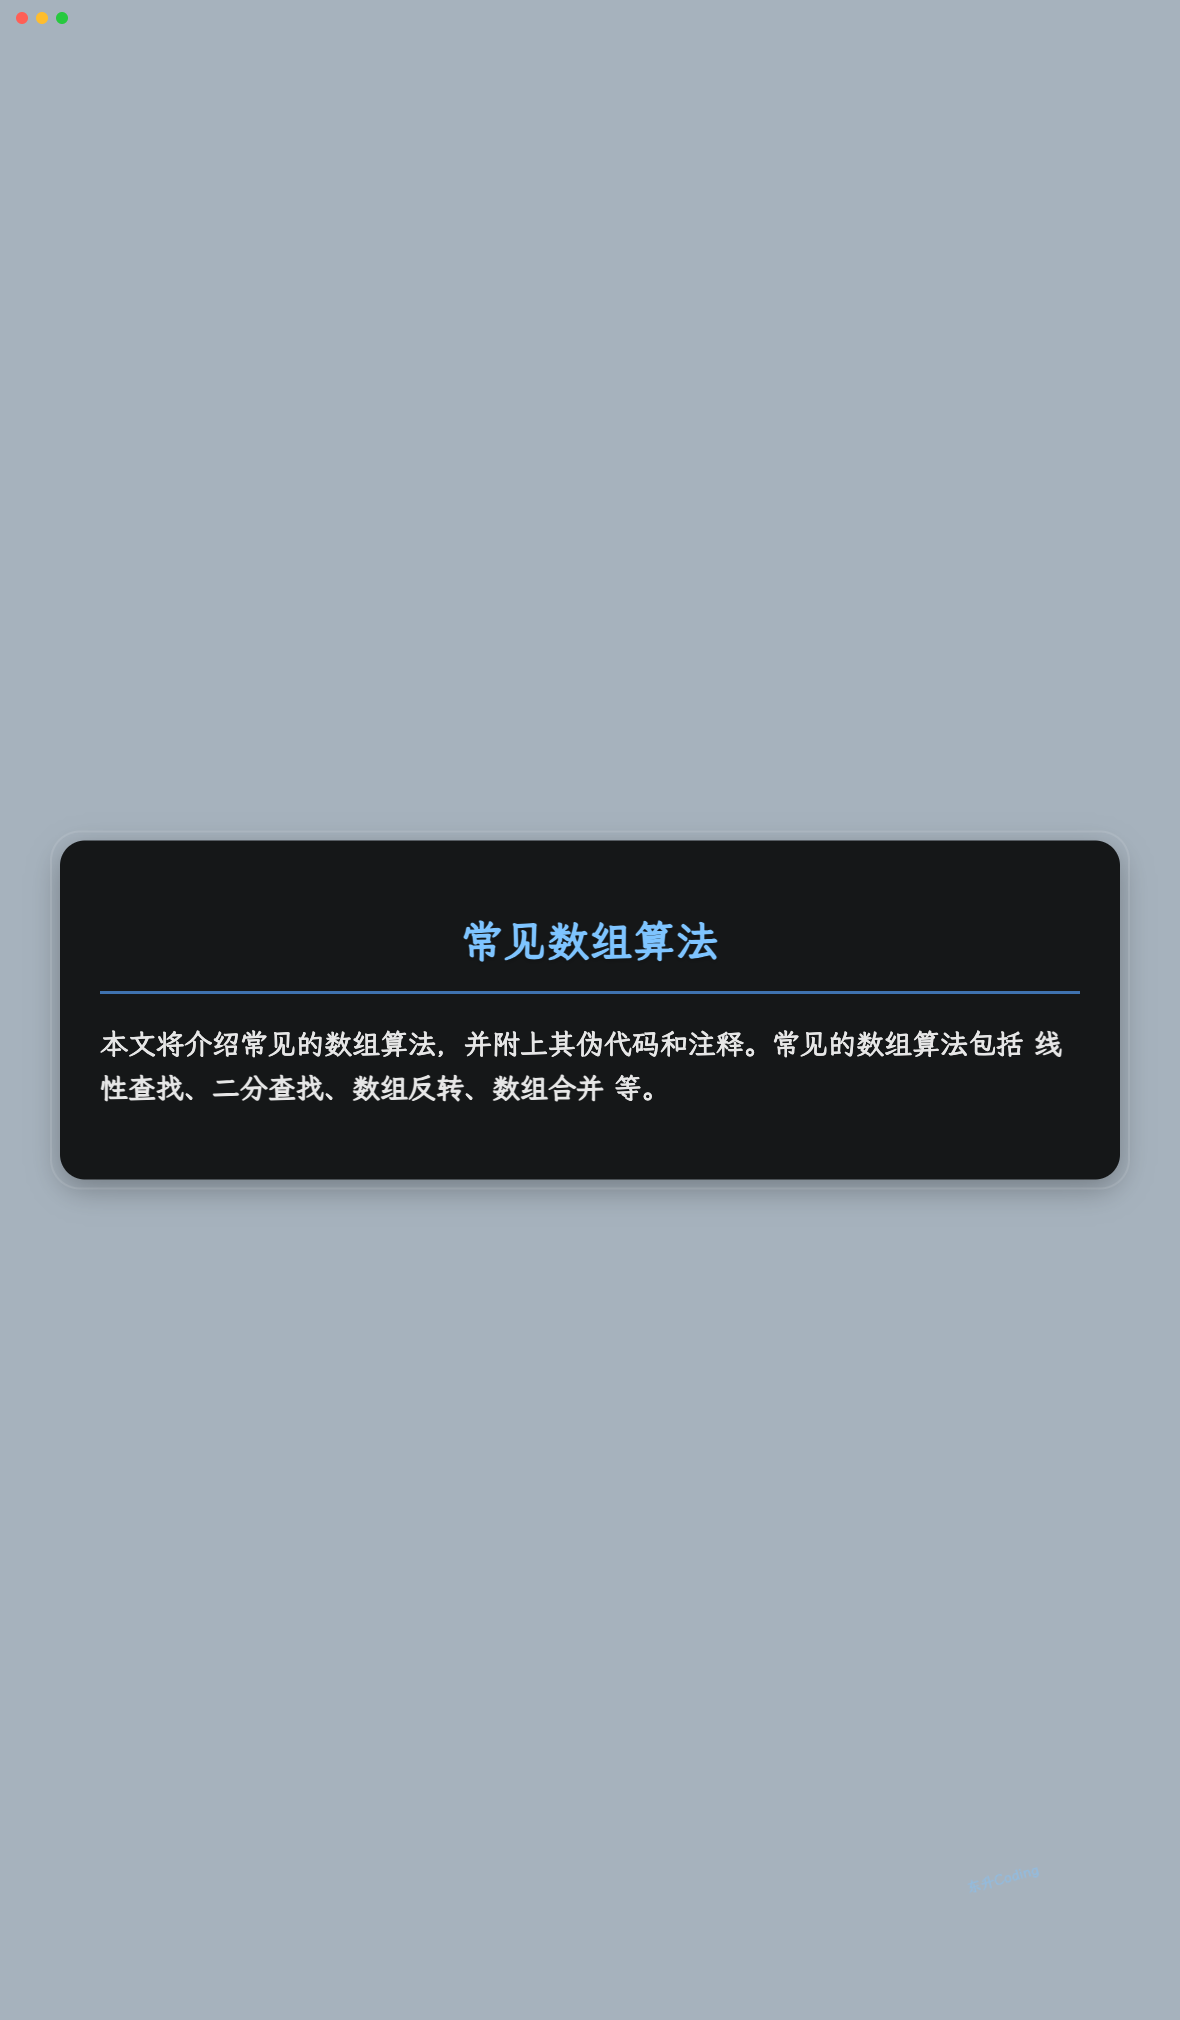
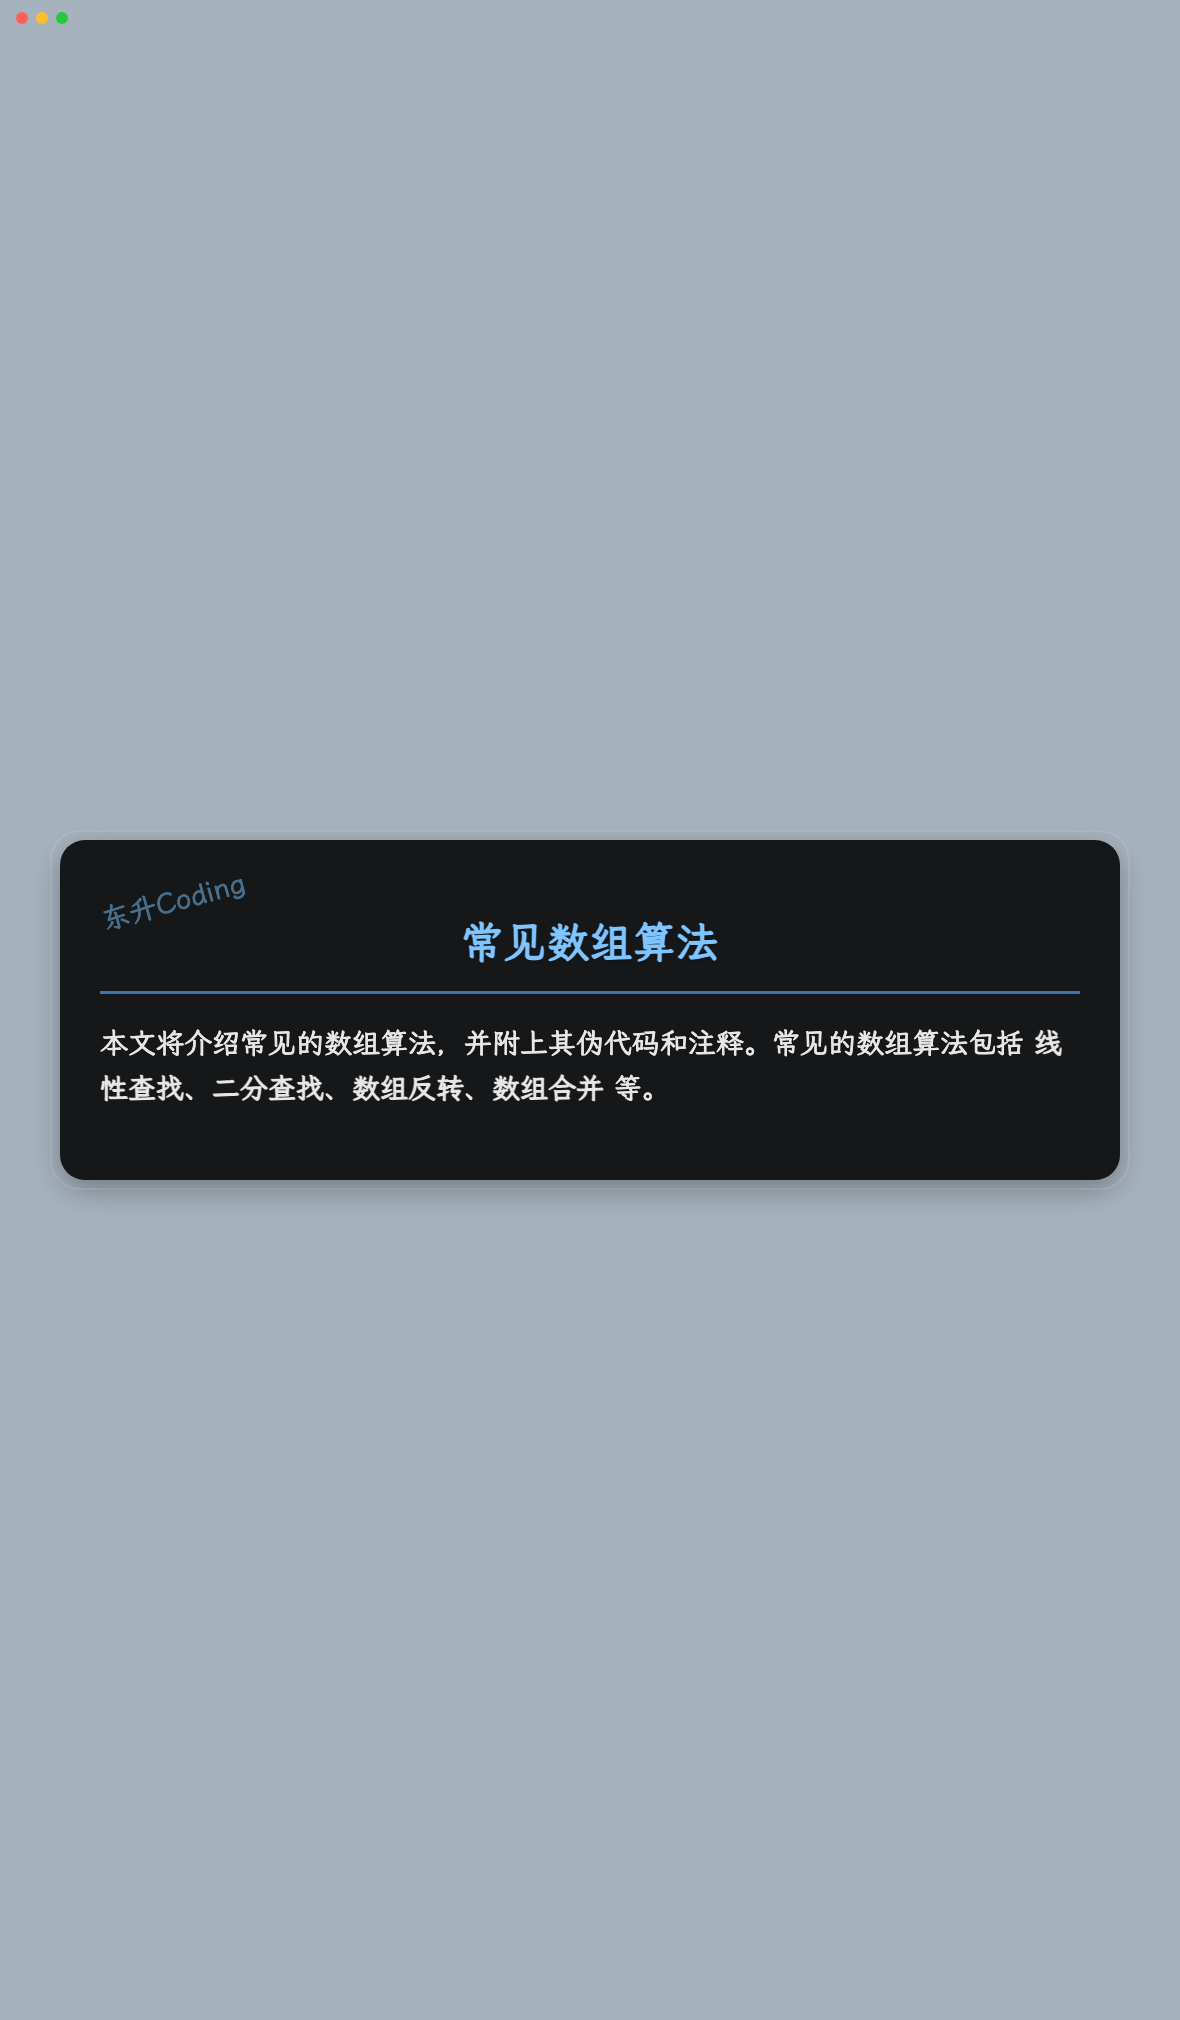
样式调整

diff --git a/md_to_image.py b/md_to_image.py
@@ -34,13 +34,12 @@ def parse_markdown(filename):
     with open(filename, 'r') as f:
         content = f.read()
     
-    # 按一级标题分割内容，第一部分作为封面
+    # 提取一级标题及其内容
     sections = re.split(r'(?=\n#\s+)', content)
     cover = sections[0].strip() if sections else ""
     
-    # 确保封面包含第一个一级标题及其内容
-    if len(sections) > 1:
-        cover = sections[0] + sections[1]
+    # 提取整个内容中的二级标题及其内容
+    cover += ''.join(re.findall(r'(?=\n##\s+).*?(?=\n##\s+|$)', content, re.DOTALL))
     
     # 按二级标题分割内容
     content_sections = re.split(r'(?=\n##\s+)', content)
@@ -63,14 +62,14 @@ def md_to_images(md_file):
         
         # 生成封面图片
         cover_html = generate_html(cover)
-        page.set_content(cover_html)
+        page.set_content(cover_html, timeout=60000)  # 增加超时时间到60秒
         page.wait_for_load_state('networkidle')
         page.screenshot(path=os.path.join(CONFIG['output_dir'], "cover.png"), full_page=True)
         
         # 生成内容图片
         for i, section in enumerate(sections):
             html = generate_html(section)
-            page.set_content(html)
+            page.set_content(html, timeout=60000)  # 增加超时时间到60秒
             page.wait_for_load_state('networkidle')
             
             # Get the actual content height
@@ -124,10 +123,19 @@ def generate_cover_html(content):
                 text-align: center;
                 text-shadow: 0 4px 8px rgba(0, 0, 0, 0.3);
             }}
+            .cover-subtitle {{
+                font-size: 48px;  /* 放大二级标题 */
+                text-align: center;
+                text-shadow: 0 3px 6px rgba(0, 0, 0, 0.2);
+                margin-top: 20px;
+            }}
         </style>
     </head>
     <body>
         <div class="cover-title">
+            {markdown(content, extensions=['fenced_code', 'codehilite', 'tables'])}
+        </div>
+        <div class="cover-subtitle">
             {markdown(content, extensions=['fenced_code', 'codehilite', 'tables'])}
         </div>
     </body>
@@ -301,9 +309,9 @@ def generate_html(content):
             }}
             /* Watermark style */
             .watermark {{
-                position: fixed;
-                bottom: 30px;
-                right: 40px;
+                position: absolute;  // 修改为绝对定位
+                bottom: 10px;  // 调整位置到content的底部
+                right: 20px;  // 调整位置到content的右侧
                 font-size: 14px;
                 opacity: 0.5;
                 color: #7ec4ff;
@@ -409,10 +417,10 @@ def generate_html(content):
         </div>
         <div class="outer-container">
             <div class="content">
+                <div class="watermark">{CONFIG['theme']['watermark']}</div>
                 {markdown(content, extensions=['fenced_code', 'codehilite', 'tables'])}
             </div>
         </div>
-        <div class="watermark">{CONFIG['theme']['watermark']}</div>
         <script>
             // 为所有代码块添加窗口控制按钮
             document.querySelectorAll('pre').forEach(pre => {{
